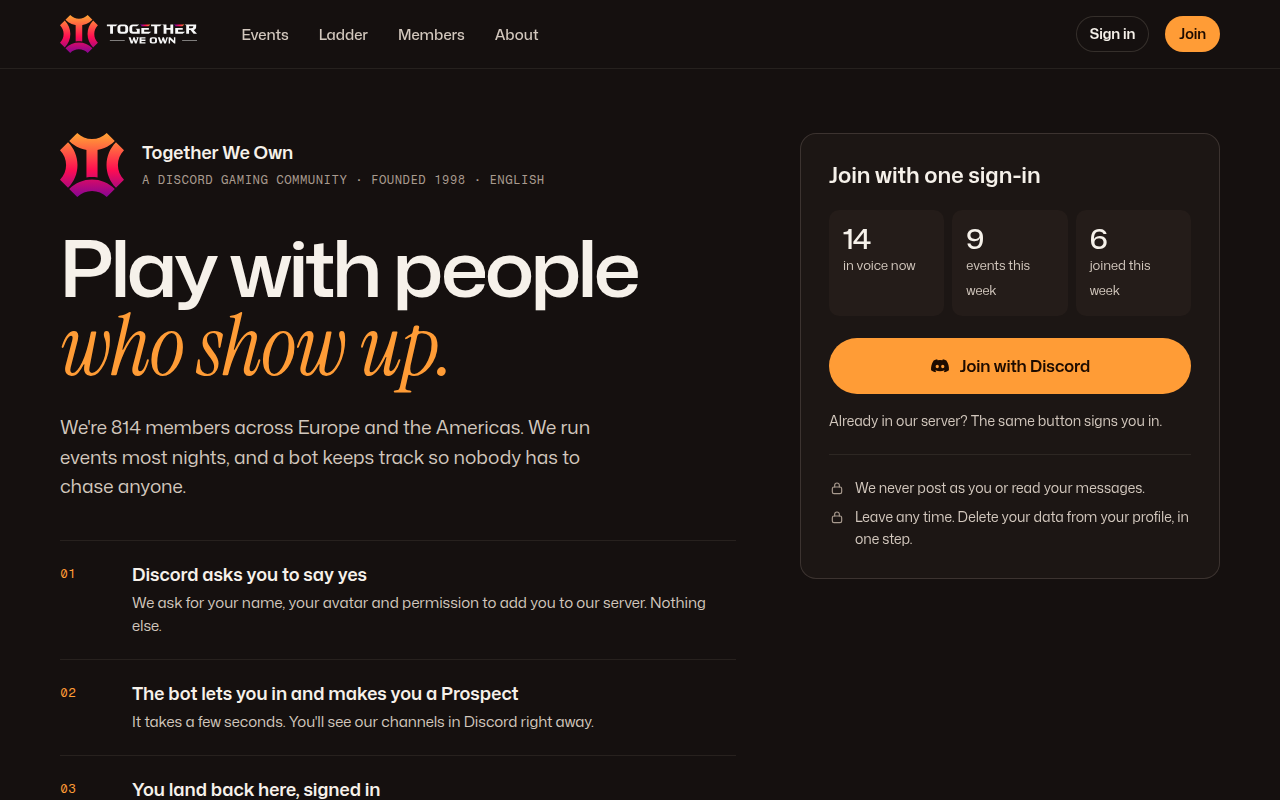
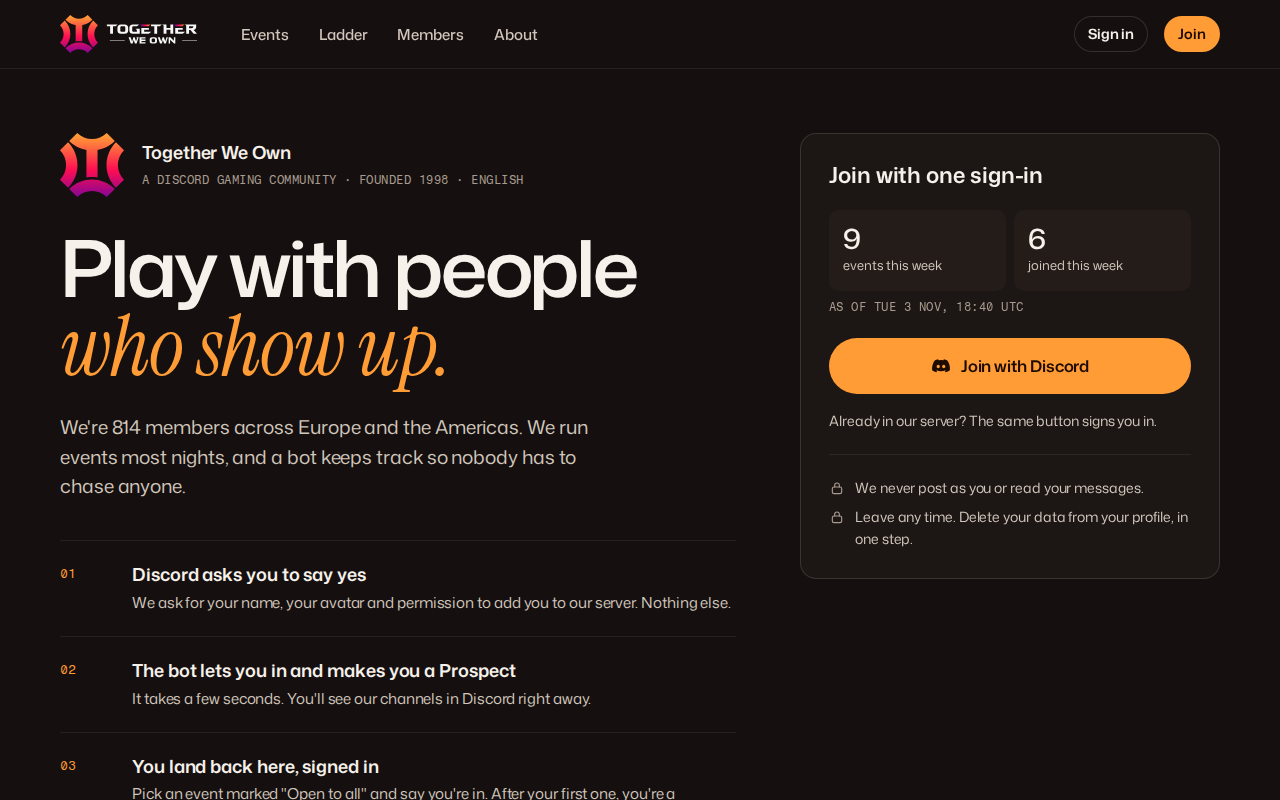
fix(kit): drop the live voice count from the cached join card (#3)
## Linked Issues or Issue Description

- The H4 join card in the join mockup shows live-looking stats ("14 in
voice now", "9 events this week", "6 joined this week"). The join page
is a static anonymous page (B1) served from a shared cache, so a live
voice count can be stale and nothing tells the visitor. Devin Review
raised this on #2.

Stacked on #2 (`fix/founded-year-static-header`). GitHub retargets this
PR to `main` when #2 merges. I'll rebase it then.

## What Changed (optional)

- **Decision: keep only slow-moving stats, with an "as of" line.** H4
now has two tiles ("9 events this week", "6 joined this week") and a
mono line, "As of Tue 3 Nov, 18:40 UTC", stamped when the cached copy is
rendered. The "in voice now" tile is gone. The line is in UTC because a
cached page can't know the viewer's zone, and it carries a date because
the copy can outlive the day.
- **Rejected: client-side fetch.** It adds a script and a layout shift
to the card that holds the page's one primary action, for numbers that
change a few times a week. It would also break B1's "don't fetch
presence" rule for static pages.
- **Rejected: drop all counts.** Weekly counts are honest when they
carry an as-of time, and they still answer "is this place alive?"
- H4 states: "live counts stale" is replaced by two states. A count
below 3 drops its tile (IB-04 floor, as in D1). If counts are
unavailable, the card shows no tiles and no "as of" line, never zeros or
[…]

diff --git a/docs/idea-bank.md b/docs/idea-bank.md
@@ -17,7 +17,7 @@ Ideas from the other design runs that are **not in the Ember Hours build**. They
 | IB-01 | Records ground (cream) | LL §3.1 | A second, cream ground used only for what the bot recorded (Echoes, history), so past events read as "the record" at a glance. | Not as a page ground (Ember is dark-only). As a **cream Echo card** for share images and print: `color.record.*` tokens (cream `#F7F2E9`, ink `#17130F`), used by OG images of Echoes. | M | Light token set and contrast pairs; OG image route |
 | IB-02 | Standing, explained | LL §2.3 | Every rank states its rule in counts ("the bot counts 5 events for this step"), and a member sees their exact next step pointing at a real slot ("Sunday needs a welcomer: put me down"). | Extend **Where you stand** (E6) and the profile **rank line** (G2) with the rule line and a "next step" row linking a real event slot. | M | Rank thresholds as reviewed config; host/welcomer "needs" on events; Echo counts |
 | IB-03 | Welcomed and hosted as ladder metrics | LL F29, §4.4 | A season board switchable between events played, welcomes and hosted. | A third segment on the ladder toolbar ("Came · Welcomed · Hosted"); "Hosting counts double" stays the default rule. | M | Echo records a welcomer role per first-timer |
-| IB-04 | Proof-of-life floor | LL §2.4, A1 | Live counts show only above a floor, so a quiet Tuesday never looks like an empty server. | Ember already switches the Live Sentence to "It's quiet" below 3. Extend the floor to the **join card** tiles and the header presence count (show "quiet right now" instead of "2 in voice"). | S | none |
+| IB-04 | Proof-of-life floor | LL §2.4, A1 | Live counts show only above a floor, so a quiet Tuesday never looks like an empty server. | Ember already switches the Live Sentence to "It's quiet" below 3. Extend the floor to the header presence count (show "quiet right now" instead of "2 in voice"). The **join card** tiles already apply it (H4). | S | none |
 | IB-05 | Moderator join queue | LL F3, MIX | New joins wait for a moderator ("a moderator confirms new joins, usually within a day; the bot will DM you"). | A **pending** state on the join card (H4) and a Lifeline-style "what happens next" for the applicant; the admin join-attempts queue already exists. | M | Owner decision to gate membership (Ember assumes open join) |
 | IB-06 | Held seat offer | LL F16 | When a seat frees up, the bot offers it to the next reserve and holds it 2 h, with accept / decline on the site and in Discord. | A **seat offer** state on the seat card ("A seat is yours if you want it, until 19:12") plus a Discord DM with two buttons; Ember today promotes automatically at T+10. | M | Bot DM buttons; offer expiry job |
 | IB-07 | Host headline on an Echo | LL §2.2 | Hosts can give an Echo a headline ("The night the lobby filled twice"); counts stay bot-owned. | An optional serif headline above the key facts (C10); edit by the host for 48 h after the event; counts never editable. | S–M | Echo table column; host permission check |
@@ -38,7 +38,7 @@ Ideas from the other design runs that are **not in the Ember Hours build**. They
 | IB-22 | Bot box score | B1 (first run) | A scoreboard-style recap per event with mirrored comparison bars (signed up vs came, this week vs last). | A "Box score" detail view behind "See the Echo" for competitive nights: two mirrored bars per fact, tabular mono. | M | Echo history per recurring event |
 | IB-23 | Signed up vs showed up scoreboard | B2 (second run) | The "last event" widget as the bot's frozen attendance: signed up against showed up. | Same home as IB-22; merge them. | — | see IB-22 |
 | IB-24 | One-screen invite landing | A1 (first run) | A single-viewport landing: crest, kicker, wordmark, one line, Join, live strip, community links. | A `/play` campaign landing for recruiting posts: the Live Sentence (guest grammar), the join action, three live tiles, nothing else; Ember type and tokens. | S–M | none |
-| IB-25 | Live Door | A2 (second run) | The join button carries the live state ("Join 14 in voice"); four live tiles (rooms, tonight's event, the ladder, the newest member); the same screen answers after sign-in. | Ember's join card already answers in place. Net new: the count in the button label (only above the IB-04 floor) and a **newest member** tile. | S | IB-04 |
+| IB-25 | Live Door | A2 (second run) | The join button carries the live state ("Join 14 in voice"); four live tiles (rooms, tonight's event, the ladder, the newest member); the same screen answers after sign-in. | Ember's join card already answers in place. Net new: the count in the button label (only above the IB-04 floor) and a **newest member** tile. The join page is cached (H4 cached page rule), so a live voice count needs a per-request join page first. | M | IB-04; per-request join page |
 | IB-26 | Search hint (Ctrl K) | B2 (second run) | A command-style search over members and events with a keyboard hint. | A header search button that opens a dialog searching events and members; the hint shows only to pointer + keyboard users. | M | Search endpoint; dialog component spec |
 | IB-27 | Accent-bar widget cards | B1, B2 | Dashboard cards with a 5–6 px accent bar on each header (B2 used the brand gradient). | Only for **admin** density (T9), with a neutral bar. The brand gradient stays in its three places, so a gradient bar needs a kit rule change first. | S | A rule change if gradient |
 | IB-28 | Condensed display faces | A1 (Rajdhani), A2 (Chakra Petch), B1/B2 (Barlow Condensed, Saira) | Esports-genre condensed or chamfered display type. | Not for the site (Mona Sans's width axis covers narrow display at `wdth` 75–90). Possible for event key art only, never UI. | S | none |

diff --git a/docs/components.md b/docs/components.md
@@ -613,7 +613,7 @@ H2 at `font-size.h3` · 3 items with a `state.ok` check icon (decorative) and a 
 
 ### H4. Join card
 
-Sticky rail card (`bg.surface`, `hairline-strong`, `radius.l`, 28 px; static at 390 where it sits right after the lede). H2 "Join with one sign-in" · three live count tiles (`bg.raised`, `radius.m`: "14 in voice now", "9 events this week", "6 joined this week") · primary `lg` full-width "Join with Discord" (Discord mark) · "Already in our server? The same button signs you in." · hairline · two privacy lines with lock icons ("We never post as you or read your messages." · "Leave any time. Delete your data from your profile, in one step.").
+Sticky rail card (`bg.surface`, `hairline-strong`, `radius.l`, 28 px; static at 390 where it sits right after the lede). H2 "Join with one sign-in" · two count tiles (`bg.raised`, `radius.m`: "9 events this week", "6 joined this week") · mono "as of" line (`text.tertiary`: "As of Tue 3 Nov, 18:40 UTC") · primary `lg` full-width "Join with Discord" (Discord mark) · "Already in our server? The same button signs you in." · hairline · two privacy lines with lock icons ("We never post as you or read your messages." · "Leave any time. Delete your data from your profile, in one step.").
 
 | State | Card content |
 |---|---|
@@ -622,7 +622,10 @@ Sticky rail card (`bg.surface`, `hairline-strong`, `radius.l`, 28 px; static at 
 | Discord denied or cancelled | heading "No problem. Nothing was shared." · primary "Try again" |
 | bot couldn't add you | warn notice "The bot couldn't add you just now." · primary "Open our Discord invite" · "The bot will give you your rank when it's back." |
 | already a member | straight sign-in; returns to the page they came from |
-| live counts stale | tiles drop to `text.tertiary`; freshness line "Last seen 18:40" |
+| a count below 3 | that tile is dropped and the other spans the row; both below 3: no tiles and no "as of" line |
+| counts unavailable when the page is rendered | no tiles and no "as of" line; never zeros or placeholders |
+
+**Cached page rule.** The join page is a static anonymous page (B1): one cached copy serves every visitor, so H4 carries no live state. No "in voice now" tile: voice presence changes by the minute, and a cached copy would show a stale number with nothing to say it is old. Live voice belongs on pages rendered per request (D1, D2). The tiles hold only counts that move slowly (this week's events, this week's joins). They are read when the cached copy is rendered, and the "as of" line names that moment. It is in UTC because a cached page can't know the viewer's zone, and it has a date because the copy can outlive the day. Don't fetch counts client-side to refresh them: that adds a script and a layout shift to the card that holds the page's one primary action, for a number that changes a few times a week. The IB-04 floor applies (numbers below 3 are never shown as a count, as in D1).
 
 ### H5. Join band
 
